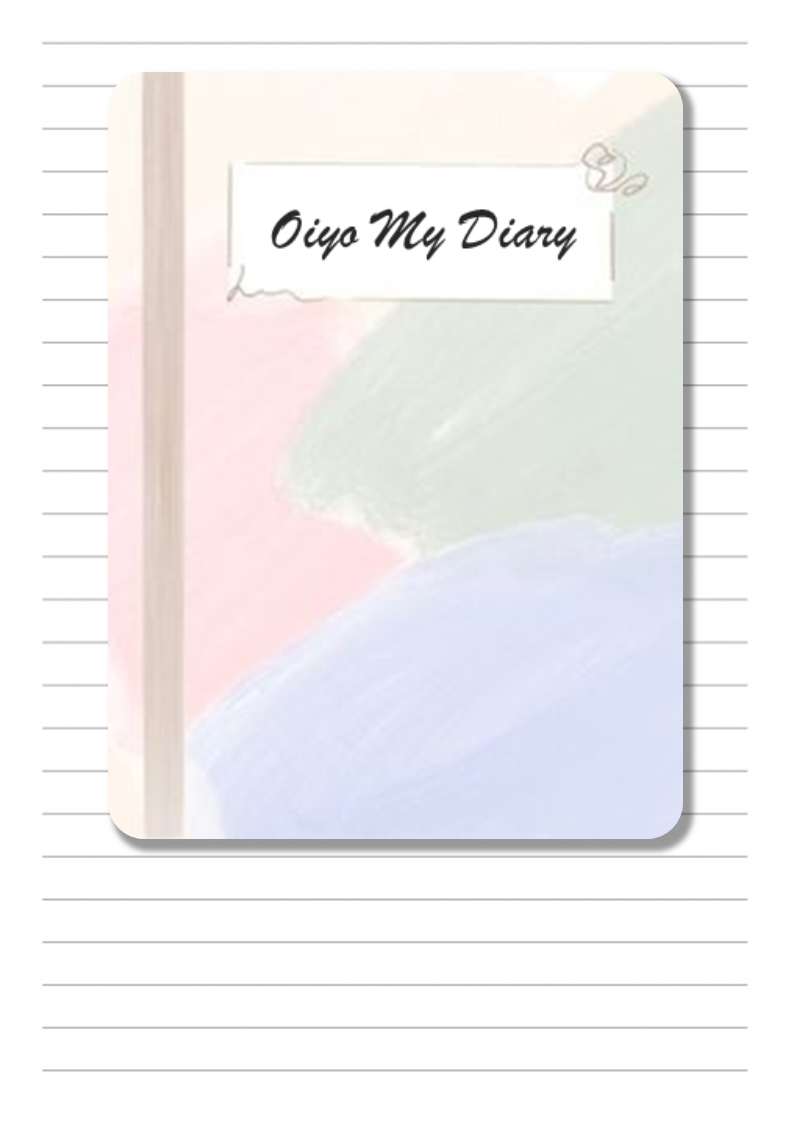
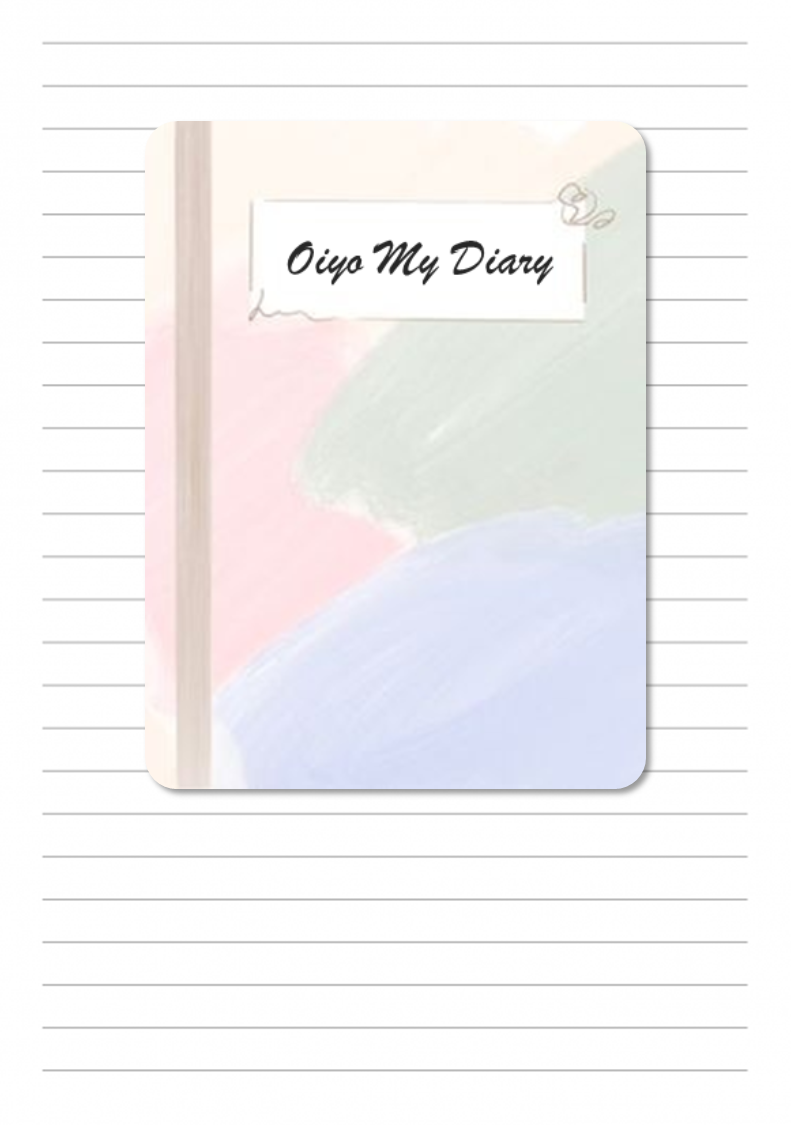
refactor: SignInPage UiViewModel 적용

Changed region(s): [[0.1214, 0.0622, 0.8799, 0.7778]]

diff --git a/my-diary-front/lib/signInPage.dart b/my-diary-front/lib/signInPage.dart
@@ -1,5 +1,6 @@
 import 'package:flutter/material.dart';
 import 'package:my_diary_front/data.dart';
+import 'package:my_diary_front/view/components/ui_view_model.dart';
 import 'package:provider/provider.dart';
 import 'package:screenshot/screenshot.dart';
 
@@ -32,94 +33,62 @@ class _SignInPageState extends State<SignInPage> {
     return SafeArea(
       child: Scaffold(
         body: SingleChildScrollView(
-          child: Center(
-            child: Container(
-                decoration: BoxDecoration(
-                    color: Colors.white,
-                    image: DecorationImage(
-                        image: Image.asset("img/login_background.png").image,
-                        fit: BoxFit.fitHeight)),
-                width: MediaQuery.of(context).size.width <
-                        MediaQuery.of(context).size.height
-                    ? MediaQuery.of(context).size.width
-                    : MediaQuery.of(context).size.height,
-                height: (MediaQuery.of(context).size.width <
-                        MediaQuery.of(context).size.height
-                    ? MediaQuery.of(context).size.height
-                    : MediaQuery.of(context).size.width) - AppBar().preferredSize.height,
-                child: Column(
+          child: UiViewModel.buildBackgroundContainer(
+            context: context,
+            backgroundType: BackgroundType.login,
+            child: Column(
+              children: [
+                const Spacer(flex: 17,),
+                Row(
+                  mainAxisAlignment: MainAxisAlignment.spaceBetween,
                   children: [
-                    Spacer(),
-                    Padding(
-                      padding: const EdgeInsets.all(16.0),
-                      child: SizedBox(
-                        width: MediaQuery.of(context).size.width <
-                                MediaQuery.of(context).size.height
-                            ? MediaQuery.of(context).size.width
-                            : MediaQuery.of(context).size.height,
-                        height: (MediaQuery.of(context).size.width <
-                                    MediaQuery.of(context).size.height
-                                ? MediaQuery.of(context).size.width
-                                : MediaQuery.of(context).size.height) *
-                            1.331730769230769,
-                        child: Card(
-                          elevation: 16.0,
-                          clipBehavior: Clip.antiAlias,
-                          shape: RoundedRectangleBorder(
-                            borderRadius: BorderRadius.circular(16.0),
-                          ),
-                          child: Ink.image(
-                            image: Image.asset("img/login_image.png").image,
-                            fit: BoxFit.fill,
-                          ),
-                        ),
+                    const Spacer(
+                      flex: 1,
+                    ),
+                    ElevatedButton(
+                      onPressed: () => _mainViewModel.login(NaverLogin()),
+                      style: ElevatedButton.styleFrom(
+                          backgroundColor: Colors.transparent, elevation: 0.0),
+                      child: Image.asset(
+                        'img/naver_icon.png',
+                        height: 50,
+                        fit: BoxFit.fitHeight,
                       ),
                     ),
-                    Spacer(),
-                    Padding(
-                      padding: const EdgeInsets.all(32.0),
-                      child: Row(
-                        mainAxisAlignment: MainAxisAlignment.spaceBetween,
-                        children: [
-                          ElevatedButton(
-                            onPressed: () => _mainViewModel.login(NaverLogin()),
-                            style: ElevatedButton.styleFrom(
-                                backgroundColor: Colors.transparent,
-                                elevation: 0.0),
-                            child: Image.asset(
-                              'img/naver_icon.png',
-                              height: 50,
-                              fit: BoxFit.fitHeight,
-                            ),
-                          ),
-                          ElevatedButton(
-                            onPressed: () => _mainViewModel.login(KakaoLogin()),
-                            style: ElevatedButton.styleFrom(
-                                backgroundColor: Colors.transparent,
-                                elevation: 0.0),
-                            child: Image.asset(
-                              'img/kakao_icon.png',
-                              height: 50,
-                              fit: BoxFit.fitHeight,
-                            ),
-                          ),
-                          ElevatedButton(
-                            onPressed: () => _mainViewModel.login(GoogleLogin()),
-                            style: ElevatedButton.styleFrom(
-                                backgroundColor: Colors.transparent,
-                                elevation: 0.0),
-                            child: Image.asset(
-                              'img/google_icon.png',
-                              height: 50,
-                              fit: BoxFit.fitHeight,
-                            ),
-                          ),
-                        ],
+                    const Spacer(
+                      flex: 2,
+                    ),
+                    ElevatedButton(
+                      onPressed: () => _mainViewModel.login(KakaoLogin()),
+                      style: ElevatedButton.styleFrom(
+                          backgroundColor: Colors.transparent, elevation: 0.0),
+                      child: Image.asset(
+                        'img/kakao_icon.png',
+                        height: 50,
+                        fit: BoxFit.fitHeight,
                       ),
                     ),
-                    Spacer(),
+                    const Spacer(
+                      flex: 2,
+                    ),
+                    ElevatedButton(
+                      onPressed: () => _mainViewModel.login(GoogleLogin()),
+                      style: ElevatedButton.styleFrom(
+                          backgroundColor: Colors.transparent, elevation: 0.0),
+                      child: Image.asset(
+                        'img/google_icon.png',
+                        height: 50,
+                        fit: BoxFit.fitHeight,
+                      ),
+                    ),
+                    const Spacer(
+                      flex: 1,
+                    ),
                   ],
-                )),
+                ),
+                const Spacer(flex: 3,),
+              ],
+            ),
           ),
         ),
       ),

diff --git a/my-diary-front/lib/view/components/ui_view_model.dart b/my-diary-front/lib/view/components/ui_view_model.dart
@@ -7,12 +7,12 @@ enum BackgroundType {
 }
 
 class UiViewModel {
-  static double containerRatio = 0.6209286209286209;
-  static double heightRatio = 0.7417322834645669;
+  static const double _containerRatio = 0.6209286209286209;
+  static const double _heightRatio = 0.7417322834645669;
 
-  static String _matchBackground(BackgroundType pageType) {
+  static String _matchBackground(BackgroundType backgroundType) {
     String base = "img/bg_";
-    switch (pageType) {
+    switch (backgroundType) {
       case BackgroundType.none:
         return "${base}none.png";
       case BackgroundType.login:
@@ -23,27 +23,34 @@ class UiViewModel {
   }
 
   static Container buildBackgroundContainer(
-      BoxConstraints context, BackgroundType pageType) {
-    String background = _matchBackground(pageType);
+      {required BuildContext context,
+      required BackgroundType backgroundType,
+      required Widget child}) {
+    String background = _matchBackground(backgroundType);
+    double width = MediaQuery.of(context).size.width;
+    double height = MediaQuery.of(context).size.height;
     return Container(
       decoration: BoxDecoration(
           color: Colors.white,
           image: DecorationImage(
               image: Image.asset(background).image, fit: BoxFit.fitHeight)),
+      width: width,
+      height: height,
+      child: child,
     );
   }
 
   static SizedBox buildLayout(BuildContext context,
-      Function(BoxConstraints constraints) child) {
+      Widget Function(BoxConstraints constraints) layoutBuilder) {
     double height = MediaQuery.of(context).size.height;
-    double containerHeight = heightRatio * height;
-    double containerWidth = containerRatio * containerHeight;
+    double containerHeight = _heightRatio * height;
+    double containerWidth = _containerRatio * containerHeight;
     return SizedBox(
       width: containerWidth,
       height: containerHeight,
       child: LayoutBuilder(
         builder: (BuildContext context, BoxConstraints constraints) =>
-            child(constraints),
+            layoutBuilder(constraints),
       ),
     );
   }
